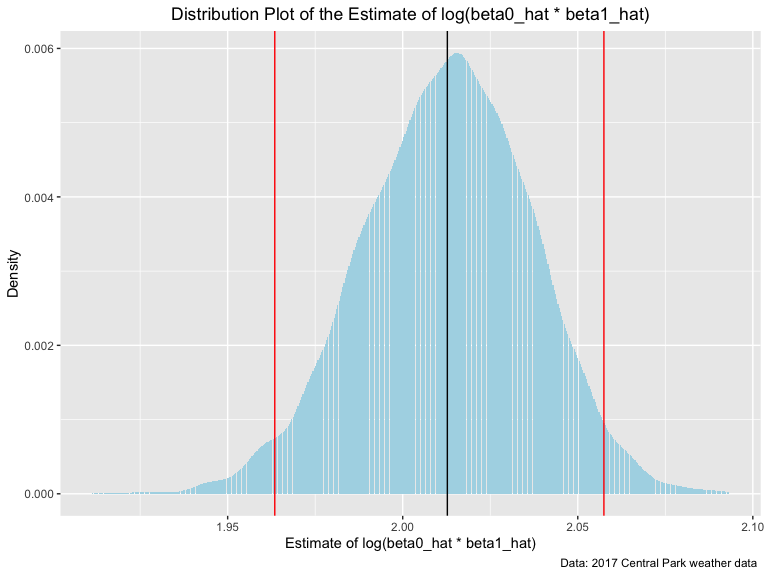
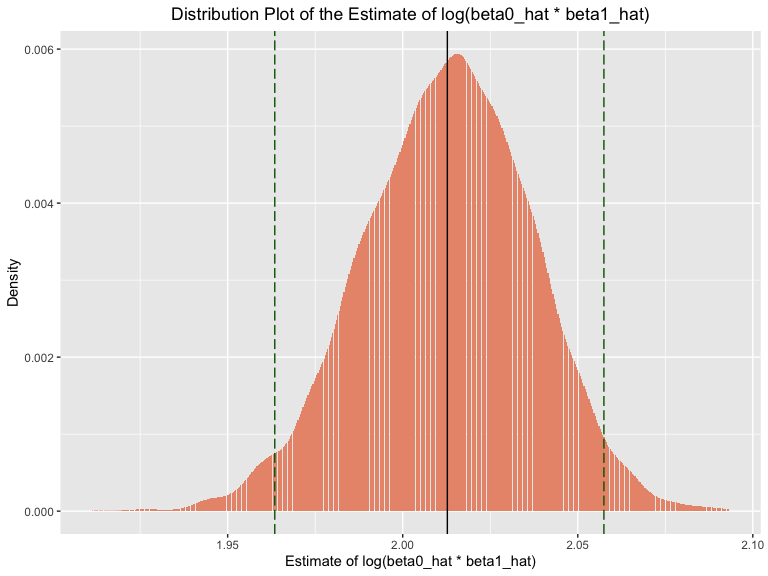
change the color of the plots and finish

diff --git a/hw6.md b/hw6.md
@@ -253,6 +253,7 @@ weather_df =
     ## file min/max dates: 1869-01-01 / 2019-11-30
 
 ``` r
+## r^2 part
 bootstrap_samples = 
   weather_df %>% 
   modelr::bootstrap(n = 5000) %>% 
@@ -280,28 +281,28 @@ CI_r2
 Therefore the 95% CI of r^2 is \[0.8938343, 0.9275407\].
 
 ``` r
+# visualization for r^2
 bootstrap_samples %>% 
   filter(term == "tmin") %>% 
   # make plot
   ggplot(aes(x = r.squared)) + 
-  geom_histogram(aes(y = stat(count / sum(count))), stat = "density", fill = "lightblue") +
+  geom_histogram(aes(y = stat(count / sum(count))), stat = "density", fill = "darksalmon") +
   labs(
     title = "Distribution Plot of the Estimate of R square",
     x = "Estimate of R square",
-    y = "Density",
-    caption = "Data: 2017 Central Park weather data ") +
+    y = "Density") +
   geom_vline(aes(xintercept = mean(r.squared))) +
-  geom_vline(aes(xintercept = CI_r2[[1]]), color = "red") +
-  geom_vline(aes(xintercept = CI_r2[[2]]), color = "red") +
+  geom_vline(aes(xintercept = CI_r2[[1]]), color = "darkgreen",linetype = "longdash") +
+  geom_vline(aes(xintercept = CI_r2[[2]]), color = "darkgreen",linetype = "longdash") +
   theme(plot.title = element_text(hjust = 0.5))
 ```
 
 <img src="hw6_files/figure-gfm/unnamed-chunk-7-1.png" width="90%" />
 
-According to the plot, we can see that this is close to normal curve. We
-can also tell from the CI that most of data were distributed around the
-center. Hence, we can say that the estimate is roughly distributed
-normally.
+Comments: According to the plot, we can see that this is close to normal
+curve. We can also tell from the CI that most of data were distributed
+around the center. Hence, we can say that the estimate is roughly
+distributed normally.
 
 ``` r
 # calculate the 95% CI of log(beta0_hat * beta1_hat)
@@ -328,6 +329,7 @@ beta_ci
 Therefore the 95% CI of is \[1.9634567, 2.0574665\]
 
 ``` r
+# visualization for log(beta0_hat * beta1_hat)
 bootstrap_samples %>% 
   select(.id, term, estimate) %>% 
   pivot_wider(
@@ -339,22 +341,21 @@ bootstrap_samples %>%
   mutate(log_estimate = log(intercept * tmin)) %>% 
   #make plot
   ggplot(aes(x = log_estimate)) + 
-  geom_histogram(aes(y = stat(count / sum(count))), stat = "density", fill = "lightblue") +
+  geom_histogram(aes(y = stat(count / sum(count))), stat = "density", fill = "darksalmon") +
   labs(
     title = "Distribution Plot of the Estimate of log(beta0_hat * beta1_hat)",
     x = "Estimate of log(beta0_hat * beta1_hat)",
-    y = "Density",
-    caption = "Data: 2017 Central Park weather data ") +
+    y = "Density") +
   
   geom_vline(aes(xintercept = mean(log_estimate))) +
-  geom_vline(aes(xintercept = beta_ci[[1]]), color = "red") +
-  geom_vline(aes(xintercept = beta_ci[[2]]), color = "red") +
+  geom_vline(aes(xintercept = beta_ci[[1]]), color = "darkgreen",linetype = "longdash") +
+  geom_vline(aes(xintercept = beta_ci[[2]]), color = "darkgreen",linetype = "longdash") +
   theme(plot.title = element_text(hjust = 0.5))
 ```
 
 <img src="hw6_files/figure-gfm/unnamed-chunk-9-1.png" width="90%" />
 
-comments:According to density plot, we can see that this is close to
+Comments: According to density plot, we can see that this is close to
 normal curve. We can also tell from the CI that most of data were
 distributed around the center. Hence, we can say that the estimate
 log(beta0\_hat \* beta1\_hat) is roughly distributed normally. This
